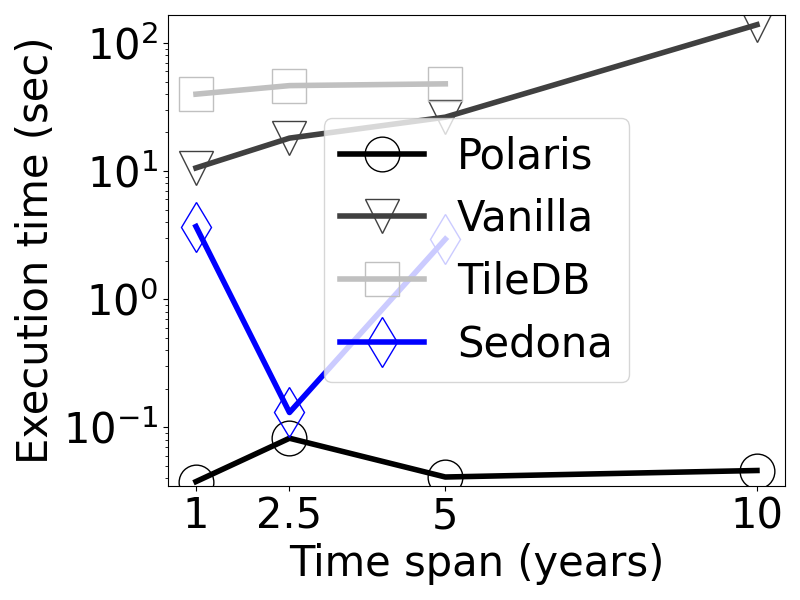
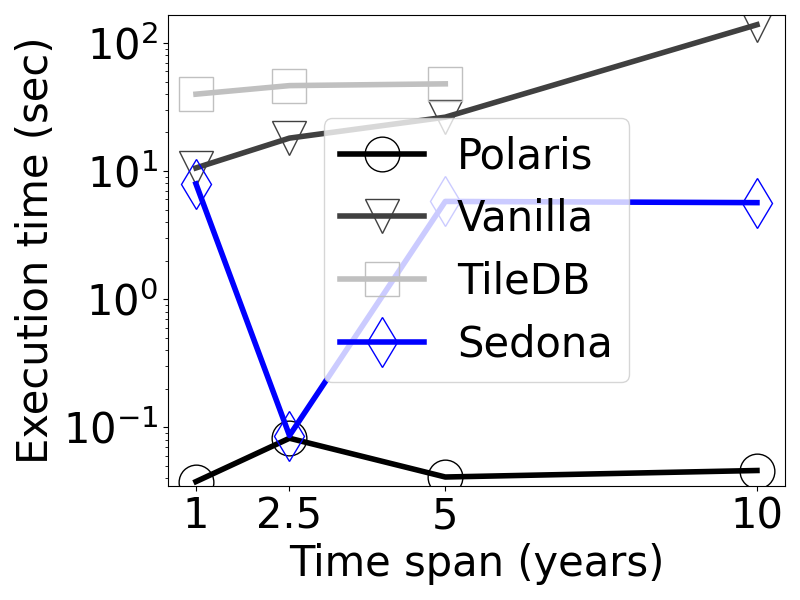
new heatmap plots

Changed region(s): [[0.2188, 0.27, 0.4062, 0.78], [0.4375, 0.3, 0.9688, 0.57], [0.4062, 0.6, 0.4375, 0.63]]

diff --git a/plots/heatmap_driver.py b/plots/heatmap_driver.py
@@ -3,7 +3,7 @@ import matplotlib.pyplot as plt
 import matplotlib
 
 # Load the CSV file
-csv_file_path = "/home/uribe055/sedona_experiments/results/all_heatmap.csv"
+csv_file_path = "/home/uribe055/sedona_experiments/results/all_heatmap_10yrs.csv"
 df = pd.read_csv(csv_file_path)
 
 # cur_plot = "s_res"
@@ -81,5 +81,5 @@ for plot_value, vals, positon in zip(unique_plots, cur_plot, legend_position): #
 
     # # final
     # plt.tight_layout()
-    # plt.savefig(f"/home/uribe055/experiment-kit/round2/all_final_figs/h/heatmap_{plot_value}.eps")  # Save the plot to a file
+    # plt.savefig(f"/home/uribe055/experiment-kit/round2/all_final_figs/h/heatmap_10yrs_{plot_value}.eps")  # Save the plot to a file
     # plt.close(fig)
